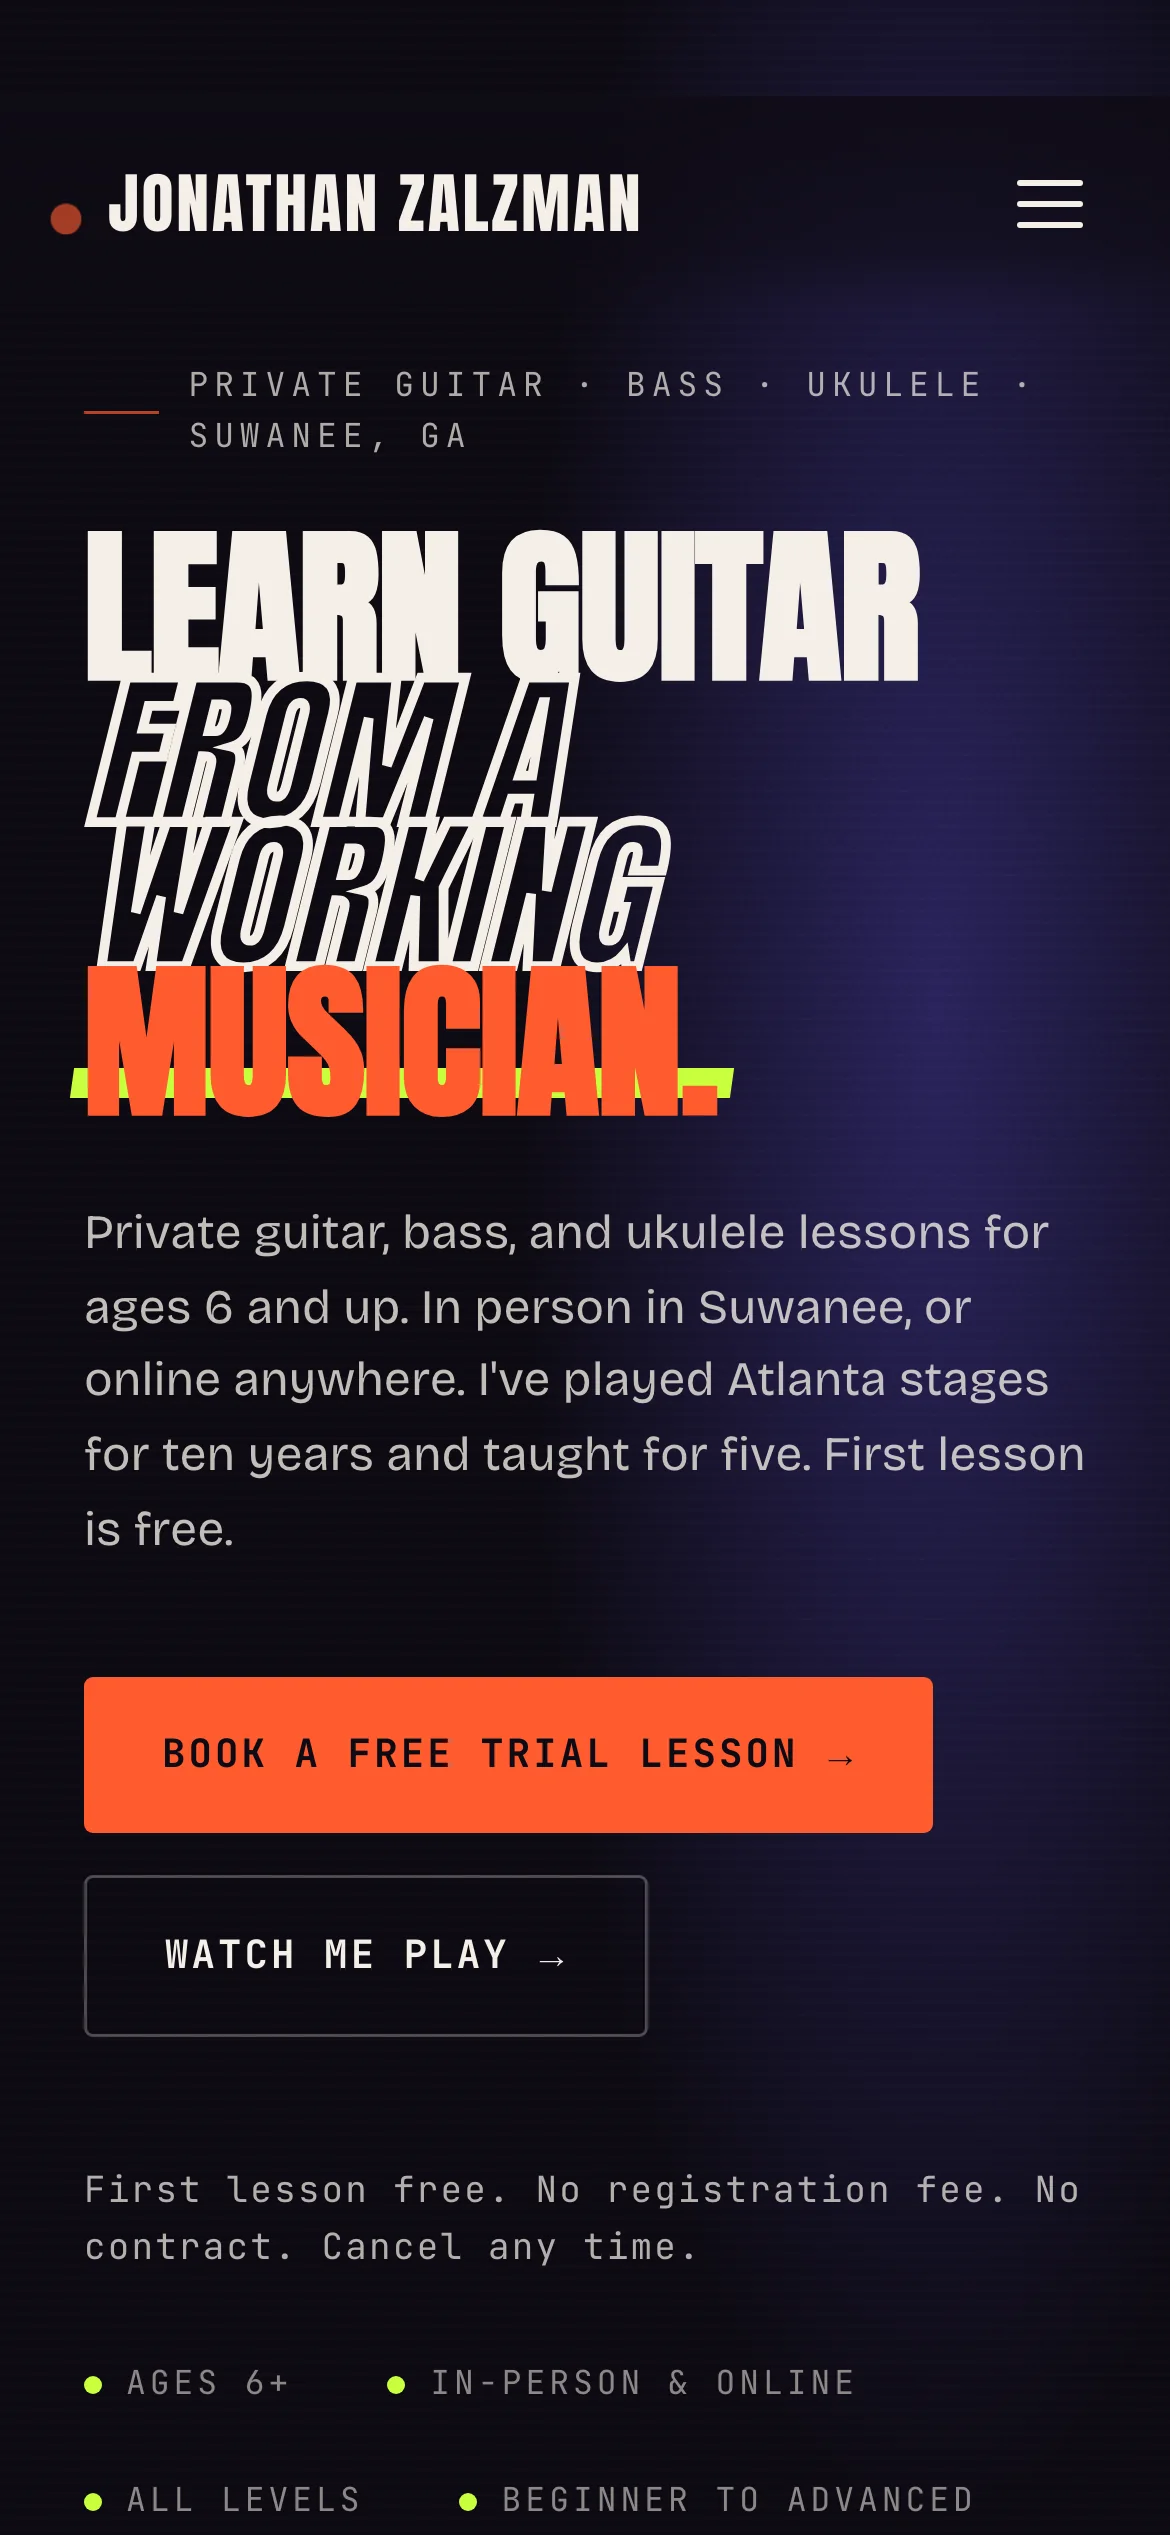
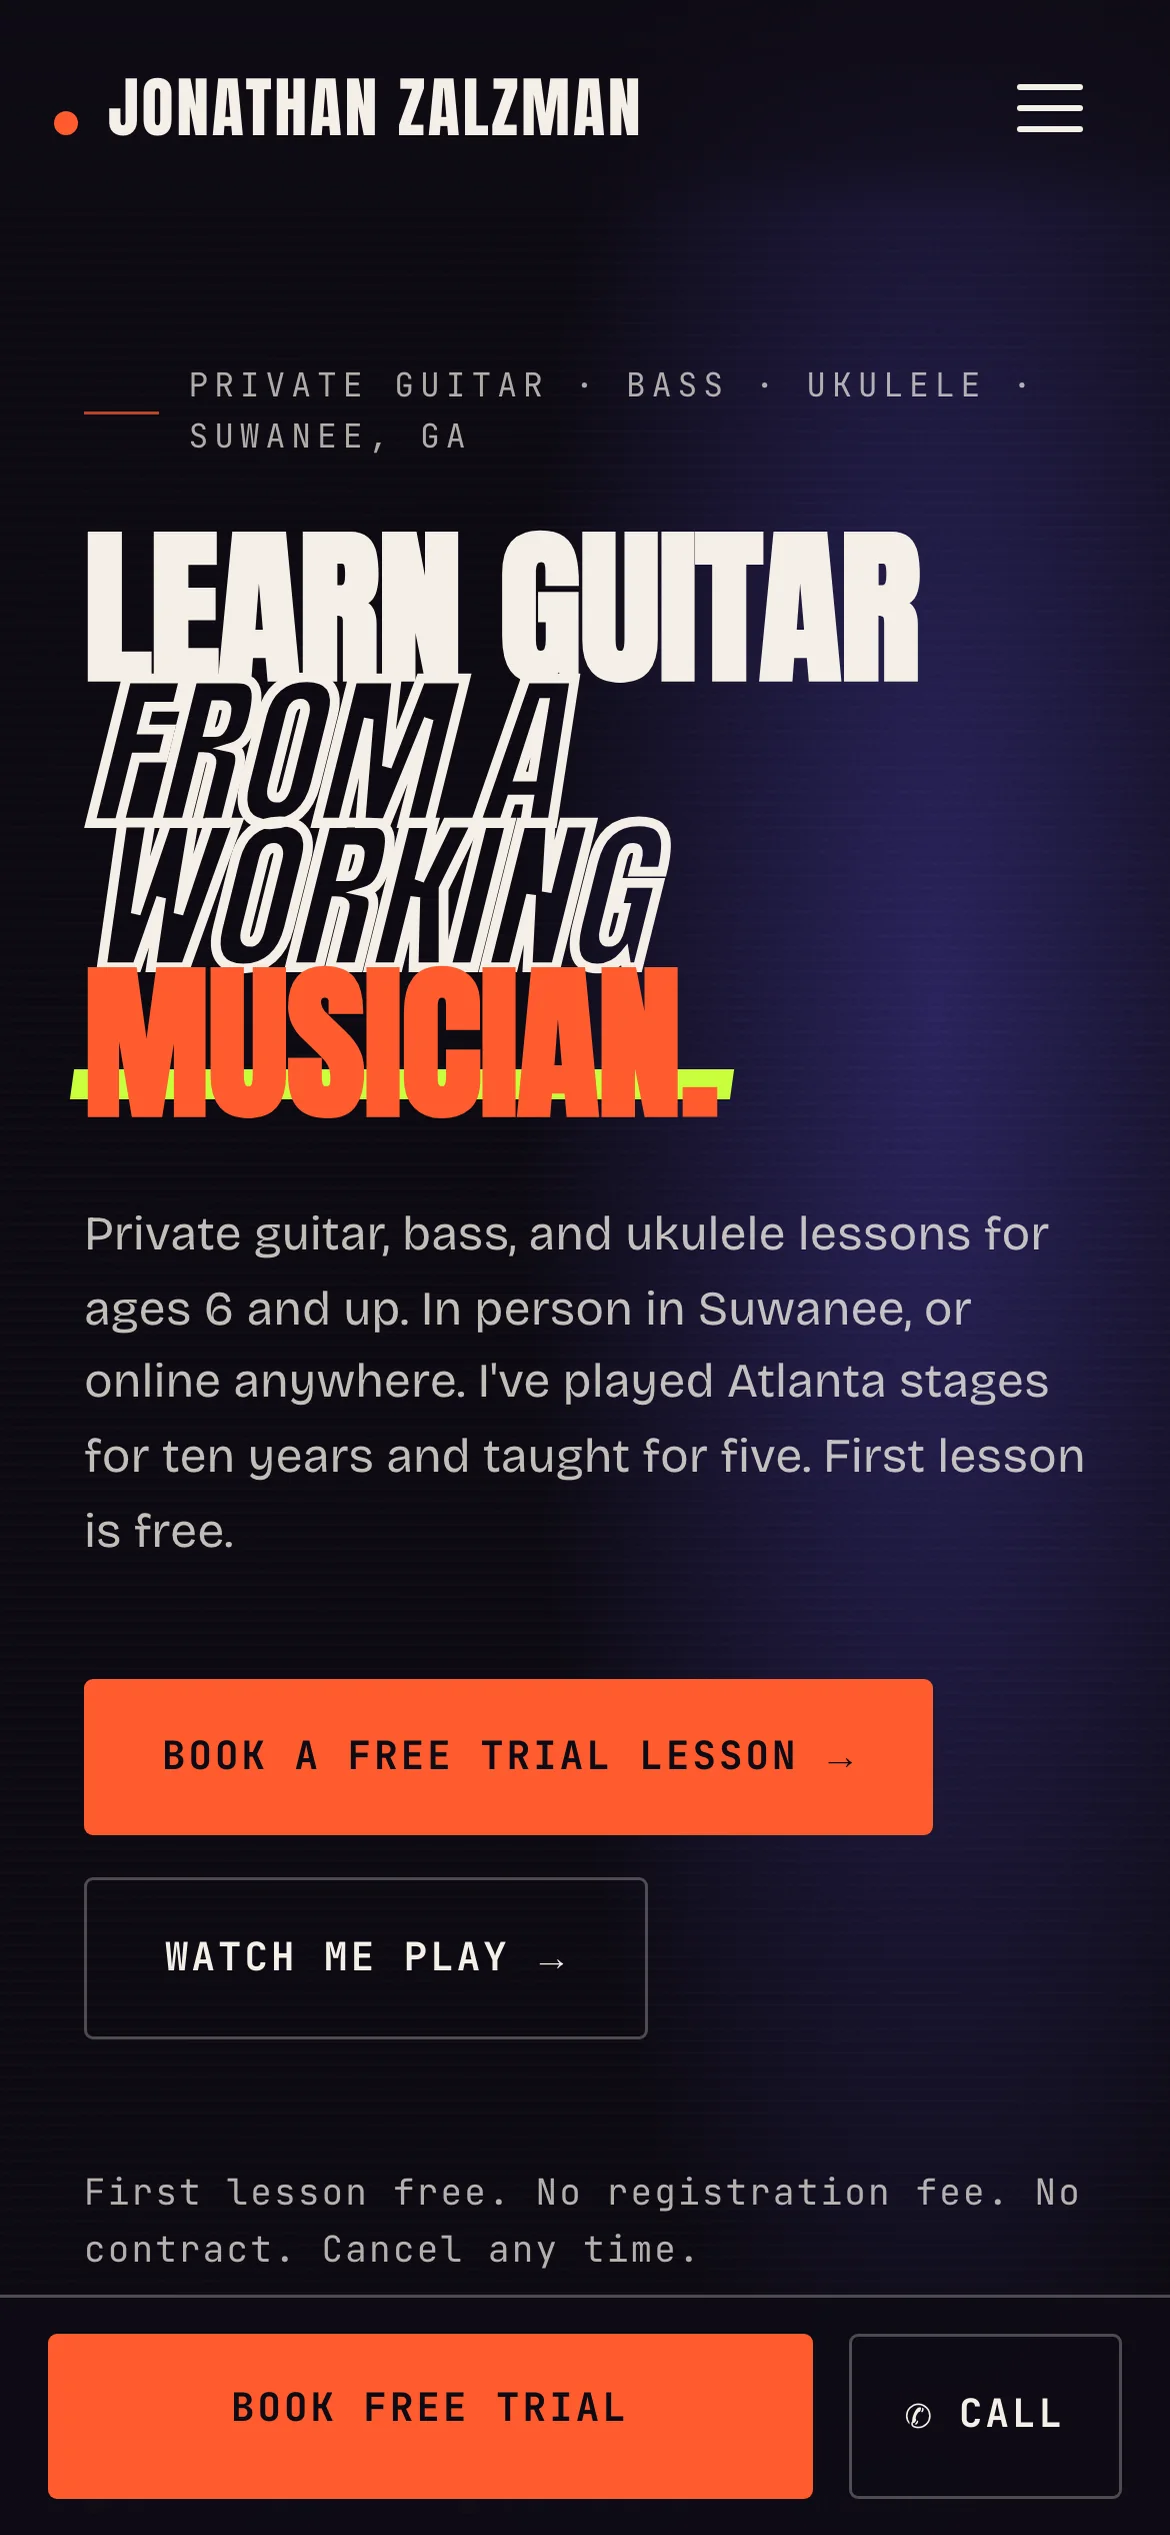
Finish the Jonathan Zalzman walkthrough and rewrite the weak stat tiles
Jonathan Zalzman: adds the band section, the FAQ accordion and the booking
form and footer as sections 08 to 10, and replaces the two full-page phone
crops with four 390px captures that show the fixed Book free trial and Call
bar.

Stat tiles: a count of work units is not an accomplishment, so "11 emails,
3 integrations" becomes "Email campaigns", "9 services" becomes "One
template", "9 styles" becomes "Two audiences", and nuVector's "Client logos"
becomes "SEO blog". Landscaper and Clox each stated the same fact twice,
once in the fact list and once in a tile; the duplicate is gone.

Also rewrites the Jonathan FAQ caption so it lists questions instead of
claiming an order, and the booking footer caption, which named the phone
number but not the email link next to it.

Claude-Session: https://claude.ai/code/session_012PqH3TDkASRxkDLNk4eZpd

diff --git a/src/data/project-walkthroughs.ts b/src/data/project-walkthroughs.ts
@@ -45,13 +45,13 @@ const timeclick: Walkthrough = {
   highlights: [
     { value: '4,000 to 30,000+', label: 'Monthly organic visitors, December 2025 to April 2026 (Google Analytics)' },
     { value: 'Full redesign', label: 'Homepage, feature pages, pricing and the free trial flow' },
-    { value: '11 emails, 3 integrations', label: 'Trial email sequence; Zoho CRM, WooCommerce and Stripe' },
+    { value: 'Email campaigns', label: 'Launched the trial and post-trial sequences, plus Zoho CRM, WooCommerce and Stripe' },
   ],
   overviewTitle: 'What the site has to do',
   overview: [
     'TimeClick sells desktop time clock software to small businesses. Unlike most competitors, it is sold for a one-time price with no subscription. The website has to explain that quickly, show that the product is trusted, and get the right visitors to start the 14-day free trial, which does not need a credit card. I redesigned the site with that goal, and then ran the SEO program that brought the visitors to it.',
     'The homepage starts with the offer and the trial button, followed by the proof: a 4.7 out of 5 rating from more than 1,000 reviews, customer logos, and a feature section that covers time tracking, PTO, job codes, reports, mobile apps, geofencing and payroll integrations with QuickBooks, ADP and Gusto. Reviews and a second trial button close the page. The site is responsive and built to load quickly on the laptops and phones that small business owners use.',
-    'I also built the systems around the site. I integrated a Zoho CRM newsletter signup into the blog. The original embed was being broken by WordPress content filters, so I replaced it with a plain JavaScript <code>fetch()</code> call. I fixed a WooCommerce and Stripe ACH microdeposit problem on the purchase site with a small script. I wrote the 11-email trial and post-trial sequence and the first newsletter to existing customers.',
+    'I also built the systems around the site. I integrated a Zoho CRM newsletter signup into the blog. The original embed was being broken by WordPress content filters, so I replaced it with a plain JavaScript <code>fetch()</code> call. I fixed a WooCommerce and Stripe ACH microdeposit problem on the purchase site with a small script. I wrote and launched the trial and post-trial email campaigns, and the first newsletter to the existing customer base.',
     'Separately from the website, I led a screen-by-screen redesign of the TimeClick 25 admin interface and delivered interactive HTML, CSS and JavaScript mockups that the development team built from.',
   ],
   results: {
@@ -268,7 +268,7 @@ const timeclick: Walkthrough = {
     ],
     marketing: [
       'Five-month SEO program: tools and resource pages, articles, on-page fixes, schema fixes, backlinks and internal linking. Organic traffic went from about 4,000 to over 30,000 visitors a month.',
-      'An 11-email trial and post-trial sequence, and the first newsletter to existing customers.',
+      'Launched the trial and post-trial email campaigns, and the first newsletter to the existing customer base.',
       'Monthly reporting from Google Analytics 4, Search Console and Ahrefs.',
     ],
   },
@@ -313,7 +313,7 @@ const ues: Walkthrough = {
     'The first screen before and after. Drag the handle. The old page opened with a photo and a phone number; the new one opens with what the company does, where, and two ways to get a pickup.',
   highlights: [
     { value: '28 states', label: 'Service area covered by the local SEO program' },
-    { value: '9 services', label: 'Each explained in a short card on the homepage' },
+    { value: 'One template', label: 'The homepage pattern the rest of the site is now being rebuilt on' },
     { value: 'Lead tracking', label: 'Form submissions and phone calls tracked in Google Analytics 4' },
   ],
   overviewTitle: 'What the site has to do',
@@ -511,7 +511,6 @@ const clox: Walkthrough = {
     'Clox is my own product, a time-tracking app for small field crews in the trades. I designed, built and market the native apps, the web dashboard and the marketing site at getclox.com.',
   pageDescription:
     'Clox case study: the getclox.com marketing site section by section, the product screens, the industry and comparison pages, and the mobile version.',
-  facts: [{ label: 'Platforms', value: 'iOS, Android and web' }],
   hero: {
     src: `${cloxImages}/first-screen.webp`,
     width: 1920,
@@ -688,7 +687,6 @@ const landscaperTemplates: Walkthrough = {
     'Three complete landscaping websites built as a sales tool. A business owner picks the layout they like, and I customize it with their name, photos and service area.',
   pageDescription:
     'Landscaper Templates case study: three landscaping website templates shown section by section and on a phone, and how the switcher and the customization work.',
-  facts: [{ label: 'Templates', value: 'Three complete designs' }],
   hero: {
     src: `${landscaperImages}/first-screen.webp`,
     width: 1920,
@@ -697,7 +695,7 @@ const landscaperTemplates: Walkthrough = {
   },
   heroCaption: 'The first screen of template 1 at 1680 pixels wide. A bar at the bottom of the live page switches between the three templates and stays visible while you scroll.',
   highlights: [
-    { value: '3 templates', label: 'Three complete websites, not mockups' },
+    { value: 'Complete sites', label: 'Three finished websites to compare, not mockups or wireframes' },
     { value: 'One switcher', label: 'Visitors move between templates without leaving the page' },
     { value: 'Free customization', label: 'Included when a business owner chooses a template' },
   ],
@@ -851,7 +849,7 @@ const jonathanZalzman: Walkthrough = {
   heroCaption: 'The first screen at 1680 pixels wide.',
   highlights: [
     { value: 'Hand-coded', label: 'HTML, CSS and JavaScript, no page builder or plugins' },
-    { value: '9 styles', label: 'A short description for each style Jonathan teaches' },
+    { value: 'Two audiences', label: 'Adult players and parents, each given their own section on one page' },
     { value: 'One booking form', label: 'Every call to action on the page leads to it' },
   ],
   overviewTitle: 'What the site has to do',
@@ -861,7 +859,7 @@ const jonathanZalzman: Walkthrough = {
     'Pricing is shown on the page: the first lesson is free, then 30 or 60 minute lessons at a flat rate, with no registration fee, contract or subscription. The booking form asks for the instrument, experience level and whether the lessons are in person or online. Every call to action on the page links to the form, and his phone number and email are also shown.',
     'The site is hand-coded HTML, CSS and JavaScript hosted on Netlify. There is no page builder and there are no plugins to update.',
   ],
-  walkthroughIntro: 'The page, top to bottom, down to the reviews. Below them the page closes with his band section, seven common questions and the booking form.',
+  walkthroughIntro: 'The page, top to bottom.',
   sections: [
     {
       title: 'Header and hero',
@@ -925,19 +923,46 @@ const jonathanZalzman: Walkthrough = {
       width: 1600,
       height: 813,
     },
+    {
+      title: 'I play guitar for a living',
+      caption:
+        'A band photo and three links: Spotify, YouTube and his band Free Hat. This is the section that backs up the headline, so a visitor can go and hear him before booking.',
+      alt: 'The section "I play guitar for a living" with a band photo and links to Spotify, YouTube and Free Hat.',
+      src: `${jonathanImages}/08-band.webp`,
+      width: 1600,
+      height: 739,
+    },
+    {
+      title: 'Common questions',
+      caption:
+        'Seven questions in an accordion: is my kid too young, I have not played in 20 years, do I need my own guitar, what happens if I miss a lesson. These are the questions that otherwise arrive one at a time by email.',
+      alt: 'An accordion of seven common questions under the heading "Questions I get every week".',
+      src: `${jonathanImages}/09-faq.webp`,
+      width: 1600,
+      height: 1146,
+    },
+    {
+      title: 'Booking form and footer',
+      caption:
+        'The form the whole page points at. It asks for the instrument, the student age, the experience level, in person or online, the plan and the best times, so the first reply can already suggest a slot. Under it, an email link and a phone number for people who would rather reach him directly.',
+      alt: 'The booking form under the heading "Book your free lesson", followed by the footer.',
+      src: `${jonathanImages}/10-book-footer.webp`,
+      width: 1600,
+      height: 1730,
+    },
   ],
   phonesIntro: 'The site on a phone, where most parents and students will find it.',
   phones: [
-    { src: `${jonathanImages}/mobile-hero.webp`, width: 1170, height: 2535, alt: 'The Jonathan Zalzman homepage on a phone: the condensed headline, one paragraph and two buttons.', caption: 'The headline still fills the screen, and both buttons are within reach of a thumb.' },
-    { src: `${jonathanImages}/mobile-learning.webp`, width: 1170, height: 2535, alt: 'A stage photo and the card listing what students are learning right now.', caption: 'The photo and the what-students-are-learning card stack instead of sitting side by side.' },
-    { src: `${jonathanImages}/mobile-bio.webp`, width: 1170, height: 2535, alt: 'The credentials ticker and the start of the bio section on a phone.', caption: 'The ticker keeps scrolling at phone width, then his story starts.' },
-    { src: `${jonathanImages}/mobile-styles.webp`, width: 1170, height: 2535, alt: 'The nine styles as one column of colored cards on a phone.', caption: 'The three-by-three grid of styles becomes one column, each with its own color.' },
+    { src: `${jonathanImages}/mobile-hero.webp`, width: 1170, height: 2535, alt: 'The Jonathan Zalzman homepage on a phone: the condensed headline, one paragraph and two buttons, with a fixed bar at the bottom.', caption: 'The headline still fills the screen, and the fixed bar keeps Book free trial and Call one tap away.' },
+    { src: `${jonathanImages}/mobile-styles.webp`, width: 1170, height: 2535, alt: 'The teaching styles as one column of colored cards on a phone.', caption: 'The three-by-three grid of styles becomes one column, each style keeping its own color.' },
+    { src: `${jonathanImages}/mobile-pricing.webp`, width: 1170, height: 2535, alt: 'The pricing section on a phone, starting with the free first lesson card.', caption: 'Pricing stacks, and the free first lesson comes first so the risk is gone before the prices appear.' },
+    { src: `${jonathanImages}/mobile-booking.webp`, width: 1170, height: 2535, alt: 'The booking form on a phone with the fields stacked one per line.', caption: 'The booking form at phone width, one field per line, with the bar still sitting at the bottom.' },
   ],
   details: {
     design: [
       'Dark background, orange accent and condensed display type, so the site looks like a musician\'s site, not a tutoring directory.',
       'His own performance photos in every section. No stock photos.',
-      'Two audiences on one page: adult players and parents. Each gets a section written for them.',
+      'Proof sits between the price and the form: student reviews, then the band section, then the questions people actually ask.',
       'The trial lesson button is in the header, the hero, after the styles, after pricing and at the end. On phones it sits in a bar at the bottom of the screen.',
     ],
     build: [
